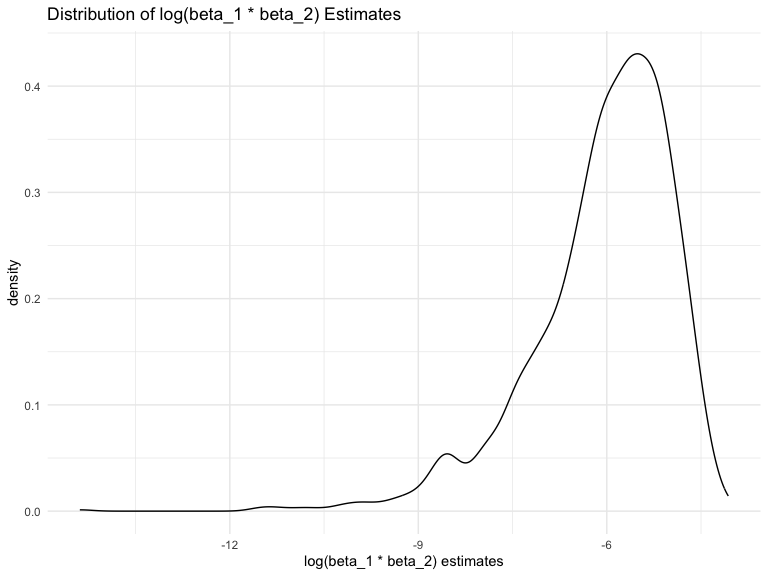
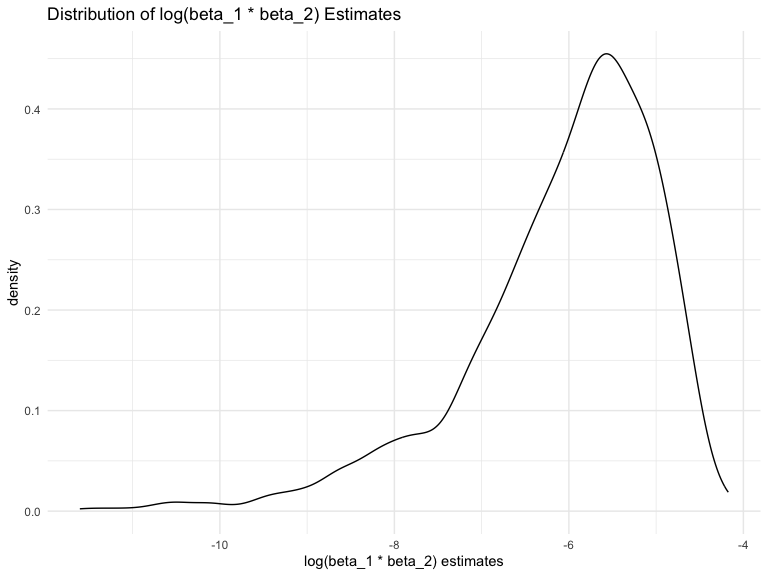
Calculate CI for r-squared and log_bata12

diff --git a/p8105_hw6_cl4469.md b/p8105_hw6_cl4469.md
@@ -231,7 +231,7 @@ Comment: We find that the distribution of r_squared estimates is
 approximately as normal distribution, and the r_squared estimates are
 around 0.92, indicating `tmin` and `prcp` are good predictors of `tmax`.
 
-\####Plot the distributions of log(beta_1 \* beta_2)
+#### Plot the distributions of log(beta_1 \* beta_2)
 
 ``` r
 boot_noNA |>
@@ -246,5 +246,39 @@ Comment: After dropping the NA value of log_beta12 in boot_strap
 dataset, we plot the distribution of log(beta_1 \* beta_2). We find that
 the estimates for log(beta_1 \* beta_2) are left skewed and have some
 outliers, with a frequency around -5.5.
+
+#### Calculate CI for r-squared and log
+
+The 95% confidence interval for r_squared
+
+``` r
+r_squared_ci = 
+  quantile(pull(boot_strap, r_squared),
+           probs = c(0.025,0.975)) |>
+  knitr::kable()
+
+r_squared_ci
+```
+
+|       |         x |
+|:------|----------:|
+| 2.5%  | 0.8891223 |
+| 97.5% | 0.9408387 |
+
+The 95% confidence interval for log(beta_1 \* beta_2)
+
+``` r
+log_beta12_ci = 
+  quantile(pull(boot_noNA, log_beta12),
+           probs = c(0.025,0.975)) |> 
+  knitr::kable()
+
+log_beta12_ci
+```
+
+|       |         x |
+|:------|----------:|
+| 2.5%  | -8.965722 |
+| 97.5% | -4.614753 |
 
 ### Problem 3
